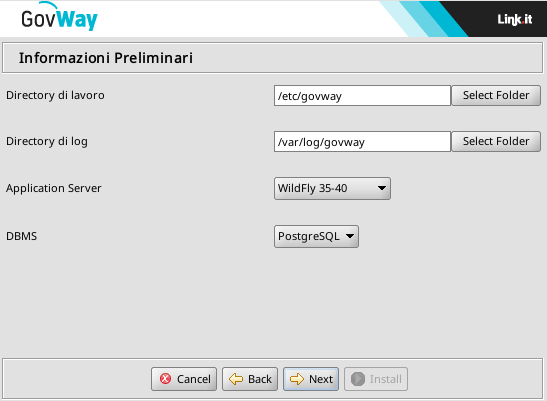
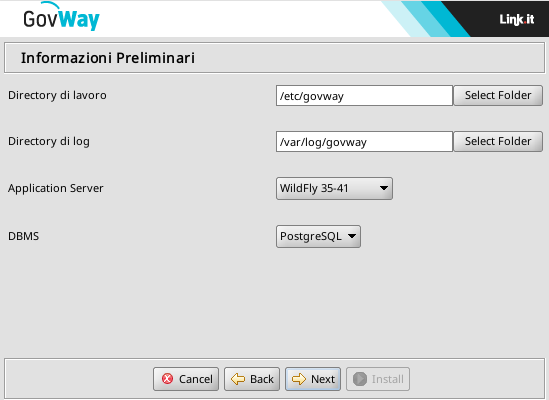
[GovWayCore] Aggiunto supporto per wildfly 41

diff --git a/resources/doc/src/manuali/installazione/preliminare/index.rst b/resources/doc/src/manuali/installazione/preliminare/index.rst
@@ -27,7 +27,7 @@ mancanti.
       (WildFly ≥ 36 e Apache Tomcat 11). Per maggiori dettagli vedi la
       :ref:`nota sulle dipendenze esterne <java25>`.
 
-#. *Application Server WildFly* (http://wildfly.org); viene supportata la versione 27-28 (compatibile con JBoss EAP 8.0) e le versioni dalla 35 alla 40 (compatibile con JBoss EAP 8.1). In alternativa è possibile effettuare
+#. *Application Server WildFly* (http://wildfly.org); viene supportata la versione 27-28 (compatibile con JBoss EAP 8.0) e le versioni dalla 35 alla 41 (compatibile con JBoss EAP 8.1). In alternativa è possibile effettuare
    l'installazione su Apache Tomcat (http://tomcat.apache.org) versione 11.
 
 #. Un *RDBMS* accessibile via JDBC. La release binaria è compatibile con i seguenti database:

diff --git a/resources/doc/src/manuali/installazione/installer/nuovaInstallazione.rst b/resources/doc/src/manuali/installazione/installer/nuovaInstallazione.rst
@@ -33,7 +33,7 @@ come si sviluppa il processo di installazione:
    -  *DBMS*: il tipo di database scelto tra quelli supportati:
       PostgreSQL, MySQL, Oracle, HyperSQL, SQLServer.
 
-   -  *Application Server*: il tipo di application server tra quelli supportati: WildFly (deve essere selezionata la voce che comprende la versione utilizzata tra: 27-28 o 35-40) e Apache Tomcat (versione 11).
+   -  *Application Server*: il tipo di application server tra quelli supportati: WildFly (deve essere selezionata la voce che comprende la versione utilizzata tra: 27-28 o 35-41) e Apache Tomcat (versione 11).
 
 #. Al passo successivo si dovranno inserire tutti i dati per l'accesso
    al database ed in particolare:
